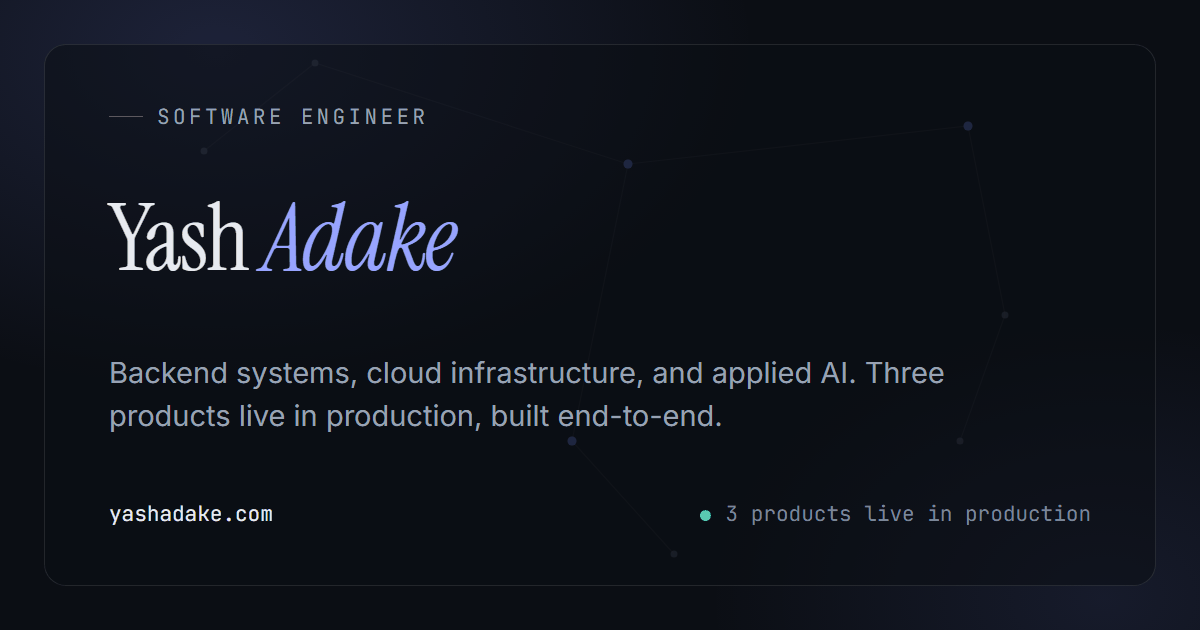
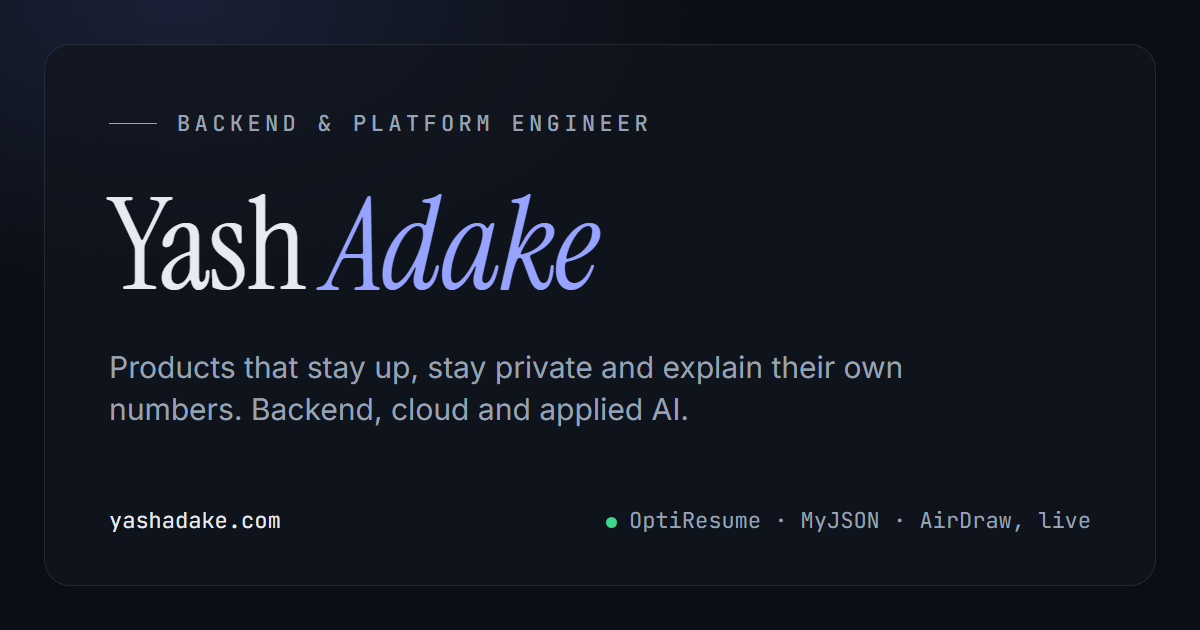
feat: Phase 2 polish
- Fresh OptiResume screenshot from the live landing page; regenerated home and OptiResume social cards (28 rules, new title)
- Product cards, About and case-study meta descriptions tightened under the 40-word rule
- About: shorter paragraphs and a Path block; certifications reordered, Claude intro courses last
- Cache-bust CSS/JS and changed images

diff --git a/index.html b/index.html
@@ -28,7 +28,7 @@
     <meta property="og:title" content="Yash Adake · Backend &amp; Platform Engineer, Applied AI">
     <meta property="og:description" content="Backend systems, cloud infrastructure, and applied AI, with three products live in production, each built end-to-end. Remote-friendly · Based in India (GMT+5:30) · Open to roles worldwide.">
     <meta property="og:url" content="https://yashadake.com/">
-    <meta property="og:image" content="https://yashadake.com/photos/og/og-home.png">
+    <meta property="og:image" content="https://yashadake.com/photos/og/og-home.png?v=2">
     <meta property="og:image:type" content="image/png">
     <meta property="og:image:width" content="1200">
     <meta property="og:image:height" content="630">
@@ -42,7 +42,7 @@
     <meta name="twitter:creator" content="@yash_adake">
     <meta name="twitter:title" content="Yash Adake · Backend &amp; Platform Engineer, Applied AI">
     <meta name="twitter:description" content="Backend systems, cloud infrastructure, and applied AI. Three products live in production, each built end-to-end. Remote-friendly · Open to roles worldwide.">
-    <meta name="twitter:image" content="https://yashadake.com/photos/og/og-home.png">
+    <meta name="twitter:image" content="https://yashadake.com/photos/og/og-home.png?v=2">
     <meta name="twitter:image:alt" content="Yash Adake · Software Engineer · Backend, cloud, and applied AI">
 
     <meta name="theme-color" content="#0B0E14">
@@ -134,7 +134,7 @@
     <link rel="preload" as="font" type="font/woff2" href="fonts/inter-latin.woff2" crossorigin>
     <link rel="preload" as="font" type="font/woff2" href="fonts/jetbrainsmono-latin.woff2" crossorigin>
 
-    <link rel="stylesheet" href="css/site.css?v=3.2.0">
+    <link rel="stylesheet" href="css/site.css?v=3.3.0">
 
     <link rel="icon" type="image/x-icon" href="photos/YA-Favicon.ico">
     <link rel="apple-touch-icon" href="photos/nav-brand.png">
@@ -316,25 +316,25 @@
                 <header class="section-header" data-reveal>
                     <p class="eyebrow">Live products</p>
                     <h2 class="section-title"><em>Built</em> &amp; shipped</h2>
-                    <p class="section-kicker">Each of these is mine in full: the architecture, the backend, the interface, the infrastructure, the launch. All three are <strong>in production and in daily use.</strong></p>
+                    <p class="section-kicker">Each of these is mine in full: the architecture, the backend, the interface, the infrastructure, the launch. All three are <strong>live in production.</strong></p>
                 </header>
 
                 <div class="work-grid">
                     <article class="work-card" data-reveal>
                         <div class="work-visual">
                             <span class="work-status"><span class="status status-live" data-live-url="https://optiresume.in"><span class="status-dot"></span><span class="status-text">Live</span></span></span>
-                            <img class="work-shot" src="photos/projects/optiresume.webp" alt="The OptiResume landing page: an honest ATS score, JD-tailored resumes, drive checks and a 100-problem coding challenge" loading="lazy" decoding="async" width="1120" height="630">
+                            <img class="work-shot" src="photos/projects/optiresume.webp?v=2" alt="The OptiResume landing page: a free 28-rule ATS score with no AI in the number, JD-tailored resumes and 6,314 practice questions" loading="lazy" decoding="async" width="1120" height="630">
                             <span class="work-logotype">Opti<em>Resume</em></span>
                         </div>
                         <div class="work-meta">
                             <span class="work-tag">SaaS · Applied AI · Own domain</span>
                             <h3 class="work-title">OptiResume</h3>
-                            <p class="work-stats">28-rule ATS engine · 100-problem prep track · 3,000+ tests</p>
-                            <p class="work-desc">A campus-placement platform on its own domain, <strong>optiresume.in</strong>. It began as an honest ATS scorer and grew into the entire journey a candidate actually walks: score and tailor the resume, audit the LinkedIn profile, track every application, then sit down and properly prepare for the test and the interview.</p>
+                            <p class="work-stats">28-rule ATS engine · 6,314 practice questions · 100+ sign-ups</p>
+                            <p class="work-desc">A placement platform for students, live at <strong>optiresume.in</strong>. Score the resume honestly, tailor it to a job, audit LinkedIn, then prepare for the test and the interview.</p>
                             <ul class="work-outcomes">
-                                <li><strong>Hybrid by design.</strong> 28 deterministic Python rules do parseability, keyword fit and skill matching for free and offline; the LLM is reserved for semantic work (STAR rewrites, cover letters, per-JD tailoring) behind a single cost-aware gateway with prompt-hash caching, in-flight dedup, shared daily caps, per-user credit quotas, PII redaction and per-call token-cost logging</li>
-                                <li><strong>The prep half.</strong> The Code Century (100 problems and a verifiable certificate), timed test series and mock papers with persisted scores, rapid-revision cards, a dedicated MBA track, a campus-drives directory with confidence tiers that auto-archives stale listings, and programmatic OA-pattern guides for 14 companies</li>
-                                <li><strong>Built to be trusted.</strong> Parse-and-discard file handling where only extracted text and a hash ever persist, an 8-hour absolute session ceiling with reuse-detecting refresh rotation, QR-verified ATS certificates, and an operator console covering the activation funnel, live LLM spend and support queries</li>
+                                <li><strong>Hybrid by design.</strong> 28 deterministic rules compute the score. The AI only writes: STAR rewrites, cover letters and per-job tailoring, behind one cost-aware gateway.</li>
+                                <li><strong>A full prep half.</strong> The 100-problem Code Century, timed mocks, revision cards, a campus-drives directory and OA guides for top recruiters.</li>
+                                <li><strong>Built to be trusted.</strong> Resumes are parsed and discarded, sessions end after 8 hours, and scores can be verified through a QR certificate.</li>
                             </ul>
                             <div class="work-stack"><span>FastAPI</span><span>Neon Postgres</span><span>Next.js 14</span><span>Gemma</span><span>Groq</span><span>Render</span></div>
                             <div class="work-actions">
@@ -354,11 +354,11 @@
                             <span class="work-tag">Devtools · Privacy-first</span>
                             <h3 class="work-title">MyJSON</h3>
                             <p class="work-stats">Real jq 1.8 in WASM · 7 formats · 100% in-browser</p>
-                            <p class="work-desc">A keyboard-first JSON/YAML workstation that runs <em>entirely</em> in your browser. Open DevTools and watch the Network tab stay silent while it works. There is no server to send your data to, so every feature, sharing included, had to be engineered around that restriction.</p>
+                            <p class="work-desc">A keyboard-first JSON/YAML workstation that runs <em>entirely</em> in your browser. Open DevTools and watch the Network tab stay silent.</p>
                             <ul class="work-outcomes">
-                                <li>Three query languages side by side (JSONPath, <strong>real jq 1.8 compiled to WebAssembly</strong>, and RFC 6901 JSON Pointer), all evaluating live as you type</li>
-                                <li>Bidirectional conversion across JSON, YAML, XML, CSV, TOML, NDJSON and TOON with a live token-savings estimate; Ajv validation with one-click schema inference; diff in Monaco, structured and RFC 6902 JSON Patch modes; codegen to seven targets</li>
-                                <li>One-click Redact masks JWTs, emails, UUIDs, IPs and cards before you share; links LZ-compress into the URL hash; installs as a true offline PWA, all of it WCAG 2.2 AA</li>
+                                <li><strong>Real jq 1.8</strong> compiled to WebAssembly, plus JSONPath and JSON Pointer, all evaluating live as you type.</li>
+                                <li>Converts across 7 formats, validates with Ajv, diffs three ways and generates code for 7 targets.</li>
+                                <li>One-click Redact masks tokens, emails and IPs before you share. Installs as an offline PWA, WCAG 2.2 AA.</li>
                             </ul>
                             <div class="work-stack"><span>Next.js 14</span><span>Monaco</span><span>jq-wasm</span><span>Zustand</span><span>Ajv</span><span>Tailwind</span></div>
                             <div class="work-actions">
@@ -378,11 +378,11 @@
                             <span class="work-tag">Browser CV · Real-time</span>
                             <h3 class="work-title">AirDraw</h3>
                             <p class="work-stats">5 gestures · 4 tool modes · 0 servers</p>
-                            <p class="work-desc">Paint with your hand in mid-air, in a browser tab. No install, no backend, no GPU, and the camera feed never leaves your device, because there is nowhere for it to go. MediaPipe HandLandmarker runs entirely in WebAssembly; the hard part was making noisy 30 fps landmark data feel like a pen.</p>
+                            <p class="work-desc">Paint with your hand in mid-air, in a browser tab. No install, no backend, and the camera feed never leaves your device.</p>
                             <ul class="work-outcomes">
-                                <li><strong>Joint-angle finger detection</strong> instead of naive fingertip heights: rotation-invariant and palm-size adaptive, so gestures still read correctly as the hand turns or moves toward the camera</li>
-                                <li>One-Euro pointer smoothing with velocity-modulated stroke width, and a bitmap canvas using <code>destination-out</code> erase, so rendering stays O(1) no matter how long you draw</li>
-                                <li>Presence smoothing reuses the last landmark for 180 ms, so a stroke survives a dropped frame or two instead of shattering; the toolbar stays authoritative over gestures across four explicit modes (Auto, Draw, Erase, Pause)</li>
+                                <li><strong>Joint-angle finger detection</strong> stays accurate as your hand rotates or moves toward the camera.</li>
+                                <li>One-Euro smoothing and velocity-based stroke width make air-drawn lines feel like a pen.</li>
+                                <li>Survives dropped frames with 180 ms presence smoothing. Four modes: Auto, Draw, Erase, Pause.</li>
                             </ul>
                             <div class="work-stack"><span>Next.js 15</span><span>React 19</span><span>MediaPipe</span><span>Zustand</span><span>TypeScript</span></div>
                             <div class="work-actions">
@@ -453,9 +453,10 @@
 
                 <div class="about-grid">
                 <div class="about-prose" data-reveal>
-                    <p class="about-lead">I'm a <strong>Software Engineer at <a href="https://arthavedh.com/" target="_blank" rel="noopener noreferrer">ArthaVedh Consulting</a></strong>, where I build platforms in Python, Docker, Kubernetes, and PostgreSQL at the seam where backend engineering meets DevOps: drawing service boundaries, running API gateways, and keeping infrastructure dependable enough that the developers above it never have to think about it. Beyond that work, I've carried three products of my own from first sketch to production; all three are live today, one on its own domain, and applied AI runs deep through my practice.</p>
-                    <p>I arrived there as an intern (Mar to Sep 2024), earned my first production exposure to cloud infrastructure, and learned to write Go I could still stand behind a week later. Before that came <strong>LiNS</strong> (Spring Boot, JDBC), <strong>ONE IT Solutions</strong> (client-facing web work), and a volunteer full-stack season with the <strong>IEEE Bombay Section</strong>.</p>
-                    <p>At present I'm studying <strong>generative and agentic AI</strong> in earnest: not merely calling the APIs, but understanding how agents plan, choose their tools, and recover when things go wrong. The next generation of software will be AI-native, and I intend to build my share of it.</p>
+                    <p class="about-lead">I'm a <strong>Software Engineer at <a href="https://arthavedh.com/" target="_blank" rel="noopener noreferrer">ArthaVedh Consulting</a></strong>. I build platforms in Python, Docker, Kubernetes and PostgreSQL where backend meets DevOps: service boundaries, API gateways, and infrastructure dependable enough that nobody above it has to think about it.</p>
+                    <p>Outside work I have shipped three products of my own, all live today. One has its own domain and 100+ sign-ups; two run with zero servers.</p>
+                    <p>I started at ArthaVedh as an intern (Mar to Sep 2024) and got my first production exposure to cloud infrastructure there. Before that: Spring Boot at <strong>LiNS</strong>, client web work at <strong>ONE IT Solutions</strong>, and a volunteer full-stack season with the <strong>IEEE Bombay Section</strong>.</p>
+                    <p>Right now I'm studying <strong>generative and agentic AI</strong> in earnest: how agents plan, choose their tools and recover when things go wrong. I intend to build my share of AI-native software.</p>
 
                     <blockquote class="about-quote">Great systems aren't loud. They disappear into reliability.</blockquote>
                 </div>
@@ -481,8 +482,9 @@
                     </div>
 
                     <div class="about-panel-group">
-                    <h3 class="about-subtitle">Education</h3>
+                    <h3 class="about-subtitle">Path</h3>
                     <ul class="about-list">
+                        <li><span class="list-label">Mar-Sep 2024</span><span>Intern · ArthaVedh Consulting, then full-time engineer</span></li>
                         <li><span class="list-label">2020-2024</span><span>B.Tech Computer Science · DKTE Institute · CGPA 8.5/10</span></li>
                     </ul>
                     </div>
@@ -493,7 +495,32 @@
                     <h3 class="about-subtitle">Certifications</h3>
                     <div class="certi-carousel-wrap">
                         <button class="certi-arrow certi-arrow-left" type="button" aria-label="Scroll certificates left"><svg class="icon" aria-hidden="true"><use href="#i-chev-left"/></svg></button>
-                        <div class="certi-carousel" id="certiCarousel">
+                        <div class="certi-carousel" id="certiCarousel">                            <div class="certi-card" role="button" tabindex="0" aria-label="View certificate: Career Essentials in Software Development, Microsoft and LinkedIn" data-img="photos/certi-4.webp" data-title="Career Essentials in Software Development" data-issuer="Microsoft &amp; LinkedIn">
+                                <img src="photos/certi-4.webp" alt="Career Essentials in Software Development Certificate" loading="lazy" decoding="async" width="200" height="150">
+                                <div class="certi-hover-overlay"><span>View</span></div>
+                                <div class="certi-info"><span class="certi-title">Career Essentials in Software Development</span><span class="certi-issuer">Microsoft &amp; LinkedIn</span></div>
+                            </div>
+                            <div class="certi-card" role="button" tabindex="0" aria-label="View certificate: Full Stack Internship, IEEE Bombay Section" data-img="photos/certi-1.webp" data-title="Full Stack Internship" data-issuer="IEEE Bombay Section">
+                                <img src="photos/certi-1.webp" alt="IEEE Full Stack Internship Certificate" loading="lazy" decoding="async" width="200" height="150">
+                                <div class="certi-hover-overlay"><span>View</span></div>
+                                <div class="certi-info"><span class="certi-title">Full Stack Internship</span><span class="certi-issuer">IEEE Bombay Section</span></div>
+                            </div>
+                            <div class="certi-card" role="button" tabindex="0" aria-label="View certificate: Networking Essentials, Cisco" data-img="photos/certi-5.webp" data-title="Networking Essentials" data-issuer="Cisco">
+                                <img src="photos/certi-5.webp" alt="Cisco Networking Essentials Certificate" loading="lazy" decoding="async" width="200" height="150">
+                                <div class="certi-hover-overlay"><span>View</span></div>
+                                <div class="certi-info"><span class="certi-title">Networking Essentials</span><span class="certi-issuer">Cisco</span></div>
+                            </div>
+                            <div class="certi-card" role="button" tabindex="0" aria-label="View certificate: Android Development Bootcamp, IITB TechFeast" data-img="photos/certi-3.webp" data-title="Android Development Bootcamp" data-issuer="IITB TechFeast">
+                                <img src="photos/certi-3.webp" alt="IITB TechFeast Android Development Bootcamp Certificate" loading="lazy" decoding="async" width="200" height="150">
+                                <div class="certi-hover-overlay"><span>View</span></div>
+                                <div class="certi-info"><span class="certi-title">Android Development Bootcamp</span><span class="certi-issuer">IITB TechFeast</span></div>
+                            </div>
+                            <div class="certi-card" role="button" tabindex="0" aria-label="View certificate: Industry Certificate, OneIT Solutions Pvt Ltd" data-img="photos/certi-2.webp" data-title="Industry Certificate" data-issuer="OneIT Solutions Pvt Ltd">
+                                <img src="photos/certi-2.webp" alt="OneIT Solutions Certificate" loading="lazy" decoding="async" width="200" height="150">
+                                <div class="certi-hover-overlay"><span>View</span></div>
+                                <div class="certi-info"><span class="certi-title">Industry Certificate</span><span class="certi-issuer">OneIT Solutions Pvt Ltd</span></div>
+                            </div>
+
                             <div class="certi-card" role="button" tabindex="0" aria-label="View certificate: Claude AI Fundamentals, Anthropic" data-img="photos/Claude101.webp" data-title="Claude AI Fundamentals" data-issuer="Anthropic">
                                 <img src="photos/Claude101.webp" alt="Claude AI Fundamentals Certificate" loading="lazy" decoding="async" width="200" height="150">
                                 <div class="certi-hover-overlay"><span>View</span></div>
@@ -509,31 +536,7 @@
                                 <div class="certi-hover-overlay"><span>View</span></div>
                                 <div class="certi-info"><span class="certi-title">Claude Code in Action</span><span class="certi-issuer">Anthropic</span></div>
                             </div>
-                            <div class="certi-card" role="button" tabindex="0" aria-label="View certificate: Career Essentials in Software Development, Microsoft and LinkedIn" data-img="photos/certi-4.webp" data-title="Career Essentials in Software Development" data-issuer="Microsoft &amp; LinkedIn">
-                                <img src="photos/certi-4.webp" alt="Career Essentials in Software Development Certificate" loading="lazy" decoding="async" width="200" height="150">
-                                <div class="certi-hover-overlay"><span>View</span></div>
-                                <div class="certi-info"><span class="certi-title">Career Essentials in Software Development</span><span class="certi-issuer">Microsoft &amp; LinkedIn</span></div>
-                            </div>
-                            <div class="certi-card" role="button" tabindex="0" aria-label="View certificate: Full Stack Internship, IEEE Bombay Section" data-img="photos/certi-1.webp" data-title="Full Stack Internship" data-issuer="IEEE Bombay Section">
-                                <img src="photos/certi-1.webp" alt="IEEE Full Stack Internship Certificate" loading="lazy" decoding="async" width="200" height="150">
-                                <div class="certi-hover-overlay"><span>View</span></div>
-                                <div class="certi-info"><span class="certi-title">Full Stack Internship</span><span class="certi-issuer">IEEE Bombay Section</span></div>
-                            </div>
-                            <div class="certi-card" role="button" tabindex="0" aria-label="View certificate: Android Development Bootcamp, IITB TechFeast" data-img="photos/certi-3.webp" data-title="Android Development Bootcamp" data-issuer="IITB TechFeast">
-                                <img src="photos/certi-3.webp" alt="IITB TechFeast Android Development Bootcamp Certificate" loading="lazy" decoding="async" width="200" height="150">
-                                <div class="certi-hover-overlay"><span>View</span></div>
-                                <div class="certi-info"><span class="certi-title">Android Development Bootcamp</span><span class="certi-issuer">IITB TechFeast</span></div>
-                            </div>
-                            <div class="certi-card" role="button" tabindex="0" aria-label="View certificate: Networking Essentials, Cisco" data-img="photos/certi-5.webp" data-title="Networking Essentials" data-issuer="Cisco">
-                                <img src="photos/certi-5.webp" alt="Cisco Networking Essentials Certificate" loading="lazy" decoding="async" width="200" height="150">
-                                <div class="certi-hover-overlay"><span>View</span></div>
-                                <div class="certi-info"><span class="certi-title">Networking Essentials</span><span class="certi-issuer">Cisco</span></div>
-                            </div>
-                            <div class="certi-card" role="button" tabindex="0" aria-label="View certificate: Industry Certificate, OneIT Solutions Pvt Ltd" data-img="photos/certi-2.webp" data-title="Industry Certificate" data-issuer="OneIT Solutions Pvt Ltd">
-                                <img src="photos/certi-2.webp" alt="OneIT Solutions Certificate" loading="lazy" decoding="async" width="200" height="150">
-                                <div class="certi-hover-overlay"><span>View</span></div>
-                                <div class="certi-info"><span class="certi-title">Industry Certificate</span><span class="certi-issuer">OneIT Solutions Pvt Ltd</span></div>
-                            </div>
+
                         </div>
                         <button class="certi-arrow certi-arrow-right" type="button" aria-label="Scroll certificates right"><svg class="icon" aria-hidden="true"><use href="#i-chev-right"/></svg></button>
                     </div>
@@ -744,7 +747,7 @@
     </div>
 
     <!-- Scripts -->
-    <script src="js/app.js?v=3.2.1" defer></script>
+    <script src="js/app.js?v=3.3.0" defer></script>
     <script src="js/analytics.js?v=2.0.1" defer></script>
 </body>
 

diff --git a/work/optiresume.html b/work/optiresume.html
@@ -8,7 +8,7 @@
     <meta name="viewport" content="width=device-width, initial-scale=1.0, viewport-fit=cover">
     <meta name="format-detection" content="telephone=no">
 
-    <meta name="description" content="How OptiResume grew from an honest 28-rule ATS scorer into a campus-placement platform on its own domain: the hybrid-AI decision, the single AI gateway, parse-and-discard file handling, and three production incidents worth remembering.">
+    <meta name="description" content="How OptiResume grew from an honest 28-rule ATS scorer into a placement platform: hybrid AI, one AI gateway, parse-and-discard files, and four incidents.">
     <meta name="author" content="Yash Adake">
     <meta name="robots" content="index, follow, max-image-preview:large, max-snippet:-1">
 
@@ -19,7 +19,7 @@
     <meta property="og:title" content="OptiResume case study">
     <meta property="og:description" content="From a 28-rule ATS scorer to a campus-placement platform: the hybrid-AI decision, a single cost-aware AI gateway, parse-and-discard handling, and what production actually broke.">
     <meta property="og:url" content="https://yashadake.com/work/optiresume.html">
-    <meta property="og:image" content="https://yashadake.com/photos/og/og-optiresume.png">
+    <meta property="og:image" content="https://yashadake.com/photos/og/og-optiresume.png?v=2">
     <meta property="og:image:width" content="1200">
     <meta property="og:image:height" content="630">
 
@@ -27,7 +27,7 @@
     <meta name="twitter:site" content="@yash_adake">
     <meta name="twitter:title" content="OptiResume case study">
     <meta name="twitter:description" content="From a 28-rule ATS scorer to a campus-placement platform: the decisions, the guardrails, and the production incidents.">
-    <meta name="twitter:image" content="https://yashadake.com/photos/og/og-optiresume.png">
+    <meta name="twitter:image" content="https://yashadake.com/photos/og/og-optiresume.png?v=2">
 
     <meta name="theme-color" content="#0B0E14">
 
@@ -36,7 +36,7 @@
         "@context": "https://schema.org",
         "@type": "TechArticle",
         "headline": "OptiResume case study",
-        "description": "How OptiResume grew from an honest 28-rule ATS scorer into a campus-placement platform: the hybrid-AI decision, the single AI gateway, parse-and-discard file handling, and three production incidents.",
+        "description": "How OptiResume grew from an honest 28-rule ATS scorer into a campus-placement platform: the hybrid-AI decision, the single AI gateway, parse-and-discard file handling, and four production incidents.",
         "url": "https://yashadake.com/work/optiresume.html",
         "author": { "@type": "Person", "name": "Yash Adake", "url": "https://yashadake.com" },
         "publisher": { "@type": "Person", "name": "Yash Adake" },
@@ -62,7 +62,7 @@
     <link rel="preload" as="font" type="font/woff2" href="../fonts/inter-latin.woff2" crossorigin>
     <link rel="preload" as="font" type="font/woff2" href="../fonts/jetbrainsmono-latin.woff2" crossorigin>
 
-    <link rel="stylesheet" href="../css/site.css?v=3.2.0">
+    <link rel="stylesheet" href="../css/site.css?v=3.3.0">
 
     <link rel="icon" type="image/x-icon" href="../photos/YA-Favicon.ico">
     <link rel="apple-touch-icon" href="../photos/nav-brand.png">
@@ -285,7 +285,7 @@
             <div class="container">
                 <h2 class="cs-h2">What production actually <em>broke</em></h2>
                 <div class="cs-prose">
-                    <p>The interesting part of shipping is rarely the launch. Three incidents from this product's first weeks live are worth writing down, because each one changed a rule I now apply everywhere.</p>
+                    <p>The interesting part of shipping is rarely the launch. Four incidents from this product's first weeks live are worth writing down, because each one changed a rule I now apply everywhere.</p>
                 </div>
 
                 <div class="cs-decisions">

diff --git a/work/airdraw.html b/work/airdraw.html
@@ -8,7 +8,7 @@
     <meta name="viewport" content="width=device-width, initial-scale=1.0, viewport-fit=cover">
     <meta name="format-detection" content="telephone=no">
 
-    <meta name="description" content="AirDraw turns noisy 30 fps hand-landmark data into something that feels like a pen: joint-angle gesture detection, One-Euro smoothing, presence smoothing across dropped frames, and an authoritative toolbar. All in the browser, with no backend.">
+    <meta name="description" content="AirDraw turns noisy 30 fps hand-landmark data into something that feels like a pen: gesture detection, One-Euro smoothing, no backend.">
     <meta name="author" content="Yash Adake">
     <meta name="robots" content="index, follow, max-image-preview:large, max-snippet:-1">
 
@@ -62,7 +62,7 @@
     <link rel="preload" as="font" type="font/woff2" href="../fonts/inter-latin.woff2" crossorigin>
     <link rel="preload" as="font" type="font/woff2" href="../fonts/jetbrainsmono-latin.woff2" crossorigin>
 
-    <link rel="stylesheet" href="../css/site.css?v=3.2.0">
+    <link rel="stylesheet" href="../css/site.css?v=3.3.0">
 
     <link rel="icon" type="image/x-icon" href="../photos/YA-Favicon.ico">
     <link rel="apple-touch-icon" href="../photos/nav-brand.png">

diff --git a/work/myjson.html b/work/myjson.html
@@ -8,7 +8,7 @@
     <meta name="viewport" content="width=device-width, initial-scale=1.0, viewport-fit=cover">
     <meta name="format-detection" content="telephone=no">
 
-    <meta name="description" content="MyJSON is a JSON and YAML workstation with no backend at all, including real jq 1.8 compiled to WebAssembly. How a hard privacy constraint shaped every feature decision in the product.">
+    <meta name="description" content="MyJSON is a JSON/YAML workstation with no backend, including real jq 1.8 in WebAssembly. How a hard privacy constraint shaped every decision.">
     <meta name="author" content="Yash Adake">
     <meta name="robots" content="index, follow, max-image-preview:large, max-snippet:-1">
 
@@ -62,7 +62,7 @@
     <link rel="preload" as="font" type="font/woff2" href="../fonts/inter-latin.woff2" crossorigin>
     <link rel="preload" as="font" type="font/woff2" href="../fonts/jetbrainsmono-latin.woff2" crossorigin>
 
-    <link rel="stylesheet" href="../css/site.css?v=3.2.0">
+    <link rel="stylesheet" href="../css/site.css?v=3.3.0">
 
     <link rel="icon" type="image/x-icon" href="../photos/YA-Favicon.ico">
     <link rel="apple-touch-icon" href="../photos/nav-brand.png">

diff --git a/notes/falsifiable-privacy.html b/notes/falsifiable-privacy.html
@@ -62,7 +62,7 @@
     <link rel="preload" as="font" type="font/woff2" href="../fonts/inter-latin.woff2" crossorigin>
     <link rel="preload" as="font" type="font/woff2" href="../fonts/jetbrainsmono-latin.woff2" crossorigin>
 
-    <link rel="stylesheet" href="../css/site.css?v=3.2.0">
+    <link rel="stylesheet" href="../css/site.css?v=3.3.0">
 
     <link rel="icon" type="image/x-icon" href="../photos/YA-Favicon.ico">
     <link rel="apple-touch-icon" href="../photos/nav-brand.png">

diff --git a/notes/floating-dependencies.html b/notes/floating-dependencies.html
@@ -62,7 +62,7 @@
     <link rel="preload" as="font" type="font/woff2" href="../fonts/inter-latin.woff2" crossorigin>
     <link rel="preload" as="font" type="font/woff2" href="../fonts/jetbrainsmono-latin.woff2" crossorigin>
 
-    <link rel="stylesheet" href="../css/site.css?v=3.2.0">
+    <link rel="stylesheet" href="../css/site.css?v=3.3.0">
 
     <link rel="icon" type="image/x-icon" href="../photos/YA-Favicon.ico">
     <link rel="apple-touch-icon" href="../photos/nav-brand.png">

diff --git a/notes/latest-aliases.html b/notes/latest-aliases.html
@@ -62,7 +62,7 @@
     <link rel="preload" as="font" type="font/woff2" href="../fonts/inter-latin.woff2" crossorigin>
     <link rel="preload" as="font" type="font/woff2" href="../fonts/jetbrainsmono-latin.woff2" crossorigin>
 
-    <link rel="stylesheet" href="../css/site.css?v=3.2.0">
+    <link rel="stylesheet" href="../css/site.css?v=3.3.0">
 
     <link rel="icon" type="image/x-icon" href="../photos/YA-Favicon.ico">
     <link rel="apple-touch-icon" href="../photos/nav-brand.png">
